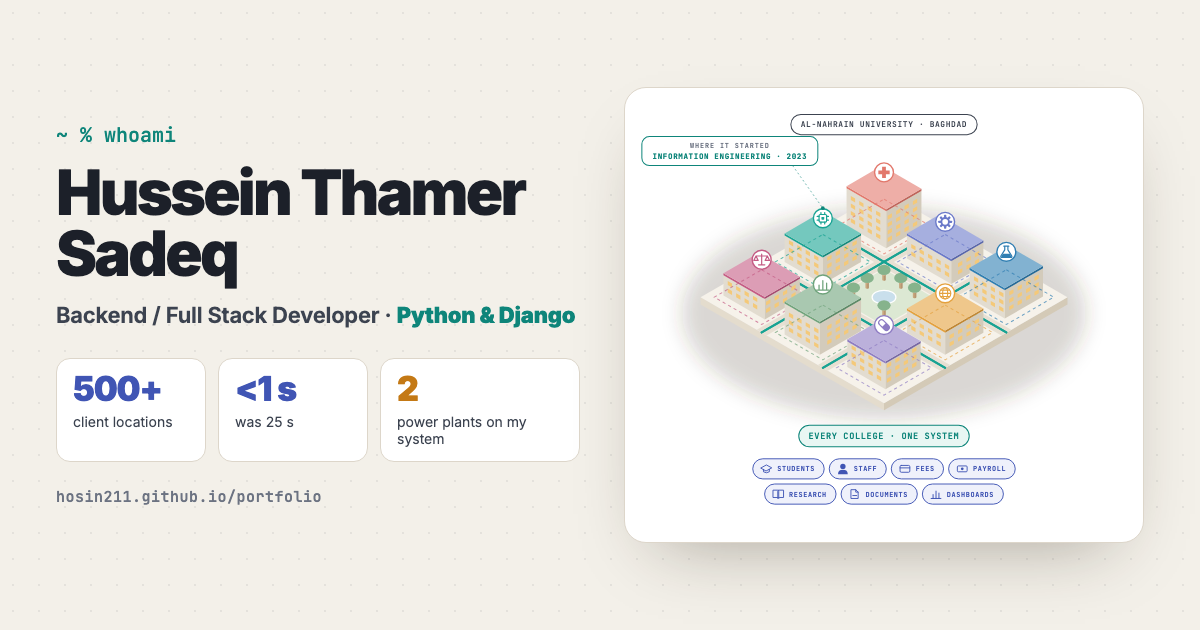
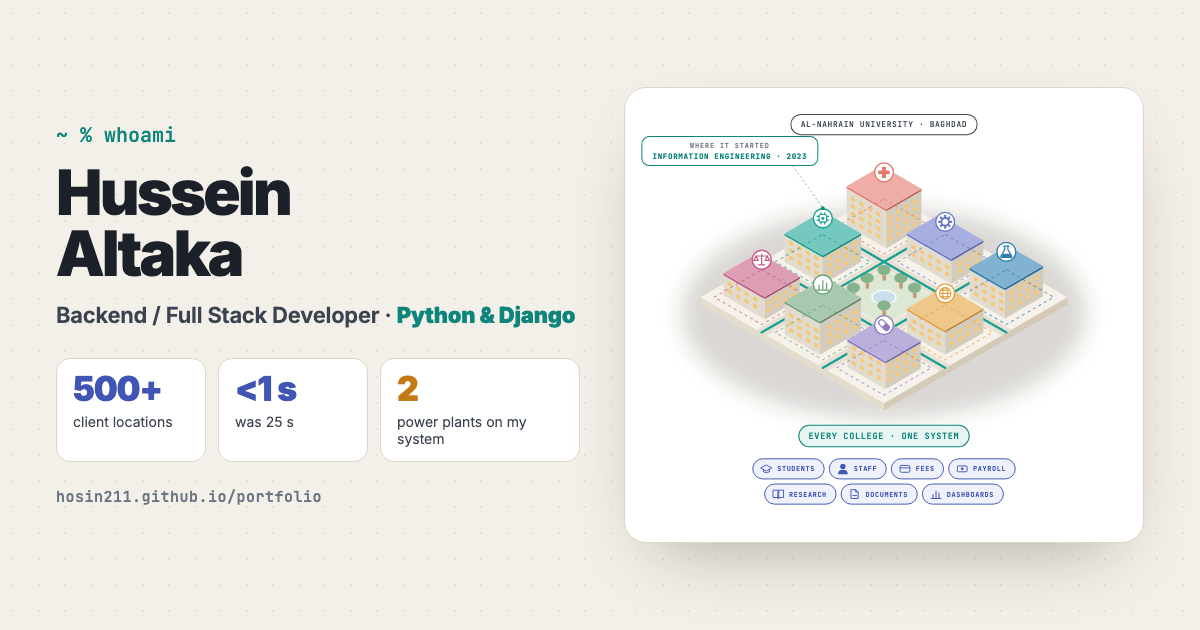
Use the name Hussein Altaka and let the home timeline draw itself
The name now matches the passport on the page, the tab title and the
link-preview card. The milestone timeline is driven by one clock: the line
runs from milestone to milestone, each node springs in as the line reaches
it, and its card rises out of the stem with its lines following. "Today"
breathes slowly. Phones, reduced motion and ?still=1 show the final state.

Changed region(s): [[0.2467, 0.2714, 0.4625, 0.3619], [0.0308, 0.3619, 0.2158, 0.4524]]

diff --git a/js/main.js b/js/main.js
@@ -84,10 +84,54 @@ function buildProfile(){
   w.querySelectorAll('.rise').forEach((c,k)=>c.style.setProperty('--k',k));
   pro={w,chars,u:pro?pro.u:0};
   paintProfile();
-  const tl=S.querySelector('.tl'); fitTimeline();
-  if(STILL||REDUCE||!('IntersectionObserver' in window)) tl.classList.add('in','done');
-  else{const io=new IntersectionObserver(es=>{if(es.some(e=>e.isIntersecting)){tl.classList.add('in');setTimeout(()=>tl.classList.add('done'),3400);io.disconnect()}},{root:prof,threshold:.3});io.observe(tl)}
+  const tl=S.querySelector('.tl'); fitTimeline(); tlm=planTimeline(tl);
+  if(STILL||REDUCE||tlSeen||!('IntersectionObserver' in window)) finishTimeline();
+  else{const m=tlm; tl.classList.add('drawing'); paintTimeline();
+    const io=new IntersectionObserver(es=>{if(es.some(e=>e.isIntersecting)){m.on=true;io.disconnect()}},{root:prof,threshold:.3});io.observe(tl)}
 }
+// The timeline draws itself like a motion graphic, with the motion rules of the fframes design guide:
+// the line runs from milestone to milestone, each node springs in as the line reaches it, its stem grows,
+// then the card rises out of the stem and its lines follow 60 ms apart. "Today" then breathes (CSS).
+const SPRING={snappy:[300,26],soft:[150,18]};                 // stiffness, damping, mass 1
+function spring(t,[k,c]){                                     // 0 → 1, a small overshoot, settles on its own
+  if(t<=0) return 0;
+  const w=Math.sqrt(k), z=c/(2*w), wd=w*Math.sqrt(1-z*z);
+  return 1-Math.exp(-z*w*t)*(Math.cos(wd*t)+z*w/wd*Math.sin(wd*t));
+}
+let tlm=null, tlSeen=false;
+function planTimeline(tl){
+  const q=s=>[...tl.querySelectorAll(s)], pos=e=>parseFloat(e.style.getPropertyValue('--x'))/100;
+  const nodes=q('.tl-node'), stems=q('.tl-stem'), cards=q('.tl-card'), yrs=q('.tl-yr');
+  const legs=[]; let s=0, from=0;                              // leg k: the line from the last milestone to milestone k
+  nodes.forEach((n,k)=>{const d=k?.34:.3; legs.push({from,to:pos(n),s,a:s+d}); from=pos(n); s+=d+.2});
+  const ms=nodes.map((n,k)=>({a:legs[k].a, node:n, stem:stems[k], card:cards[k],
+    dir:cards[k].classList.contains('down')?-1:1,
+    parts:[...cards[k].querySelectorAll(':scope>.tl-date,:scope>b,:scope>.tl-role,.tl-hi em')],
+    yr:yrs.find(y=>Math.abs(pos(y)-pos(n))<.001)}));
+  return {tl,line:tl.querySelector('.tl-line'),legs,ms,t:0,on:false,end:legs[legs.length-1].a+1.3};
+}
+function paintTimeline(){
+  const m=tlm; if(!m) return; const t=m.t, last=m.legs[m.legs.length-1];
+  let x=0; for(const g of m.legs){if(t>=g.a) x=g.to; else{if(t>g.s) x=lerp(g.from,g.to,E.inOutCubic(P(t,g.s,g.a))); break}}
+  if(t>last.a) x=lerp(last.to,1,E.outCubic(P(t,last.a+.1,last.a+.7)));   // after "today" it runs on to the edge
+  m.line.style.clipPath=`inset(0 ${((1-x)*100).toFixed(2)}% 0 0 round 2px)`;
+  const f=v=>v.toFixed(3);
+  m.ms.forEach(o=>{
+    const a=o.a, n=spring(t-a,SPRING.snappy), c=spring(t-a-.1,SPRING.soft);
+    o.node.style.opacity=f(P(t,a,a+.12)); o.node.style.transform=`scale(${f(.45+.55*n)})`;
+    o.stem.style.opacity=f(.5*P(t,a+.04,a+.2)); o.stem.style.transform=`scaleY(${f(E.outCubic(P(t,a+.04,a+.3)))})`;
+    if(o.yr){o.yr.style.opacity=f(.3*P(t,a+.1,a+.45)); o.yr.style.transform=`translate(-50%,${((1-c)*18).toFixed(1)}px)`}
+    o.card.style.opacity=f(E.outCubic(P(t,a+.1,a+.4)));
+    o.card.style.transform=`translateY(${(o.dir*40*(1-c)).toFixed(1)}px) scale(${(.96+.04*c).toFixed(4)})`;
+    o.parts.forEach((e,j)=>{const s=a+.17+j*.06; e.style.opacity=f(P(t,s,s+.25)); e.style.transform=`translateY(${((1-spring(t-s,SPRING.soft))*10).toFixed(1)}px)`});
+  });
+}
+function finishTimeline(){                                     // hand everything back to the stylesheet
+  const m=tlm; if(!m) return; m.on=false; m.t=m.end; tlSeen=true;
+  [m.line,...m.ms.flatMap(o=>[o.node,o.stem,o.card,o.yr,...o.parts])].forEach(e=>{if(e){e.style.opacity='';e.style.transform='';e.style.clipPath=''}});
+  m.tl.classList.remove('drawing'); m.tl.classList.add('done');
+}
+window.timelineAt=t=>{if(!tlm) return; if(t>=tlm.end) return finishTimeline(); tlm.tl.classList.remove('done'); tlm.tl.classList.add('drawing'); tlm.t=t; paintTimeline()};
 function fitTimeline(){
   const tl=prof.querySelector('.tl'); if(!tl) return;
   if(innerWidth<=1100){tl.style.height='';return}
@@ -239,7 +283,7 @@ function setMode(m){
   prof.inert=m!=='profile'; storyEl.inert=m!=='story';
   prof.setAttribute('aria-hidden',m!=='profile'); storyEl.setAttribute('aria-hidden',m!=='story');
   if(m==='profile'){stopTour();secs.forEach(s=>s.classList.remove('on'));document.body.dataset.tone='teal';document.title=PAGE_TITLE}
-  else document.title=`${tx(UI.story)} · Hussein Thamer Sadeq`;
+  else document.title=`${tx(UI.story)} · Hussein Altaka`;
 }
 const PAGE_TITLE=document.title;
 function openStory(i=0){
@@ -361,6 +405,7 @@ function frame(ts){
   const dt=Math.min(.05,(ts-last)/1000); last=ts;
   if(!REDUCE){
     if(mode==='profile'&&pro&&pro.u<3){pro.u+=dt;paintProfile()}
+    if(mode==='profile'&&tlm&&tlm.on&&pro.u>1.2){tlm.t+=dt; if(tlm.t>=tlm.end) finishTimeline(); else paintTimeline()}
     if(mode==='story'){const m=mounted.find(x=>x.i===idx); if(m){m.u+=dt;paint(m)}}
   }
   tourTick(dt);

diff --git a/css/site.css b/css/site.css
@@ -110,8 +110,8 @@ body[data-mode=story] #profile{transform:translateX(-8vw) scale(.985);opacity:0;
 .tl [data-tone=amb]{--c:var(--amb);--cL:var(--ambL)} .tl [data-tone=ink]{--c:var(--ink);--cL:var(--bg)}
 .tl-line{position:absolute;left:0;right:0;top:50%;height:4px;margin-top:-2px;border-radius:2px;background:linear-gradient(90deg,var(--teal) 0%,var(--teal) 44%,var(--ind) 56%,var(--ind) 100%);transform-origin:0 50%}
 .tl-node{position:absolute;z-index:1;top:50%;left:var(--x);width:22px;height:22px;margin:-11px 0 0 -11px;border-radius:50%;background:#fff;border:4px solid var(--c);box-shadow:0 0 0 5px #fff}
-.tl-node.today::after{content:'';position:absolute;inset:-5px;border-radius:50%;border:2px solid var(--c);animation:tlpulse 1.9s ease-out infinite}
-@keyframes tlpulse{from{transform:scale(1);opacity:.7}to{transform:scale(2.3);opacity:0}}
+.tl-node.today::after{content:'';position:absolute;inset:-5px;border-radius:50%;border:2px solid var(--c);animation:tlpulse 3.6s cubic-bezier(.16,1,.3,1) infinite}
+@keyframes tlpulse{from{transform:scale(1);opacity:.55}to{transform:scale(2.1);opacity:0}}
 .tl-stem{position:absolute;left:var(--x);width:2px;margin-left:-1px;height:24px;background:var(--c);opacity:.5}
 .tl-stem.up{bottom:calc(50% + 12px)} .tl-stem.down{top:calc(50% + 12px)}
 .tl-yr{position:absolute;left:var(--x);top:calc(50% + 28px);transform:translateX(-50%);font-size:clamp(42px,3.7vw,62px);font-weight:900;letter-spacing:-.05em;line-height:1;color:var(--c);opacity:.3;pointer-events:none}
@@ -135,18 +135,11 @@ button.tl-card:hover .go{transform:translateX(3px)}
 .lg{display:inline-flex;align-items:center;gap:7px;font:600 11px/1 var(--mono);letter-spacing:1.3px;text-transform:uppercase;color:var(--mute)}
 .lg b{font-size:13px;color:var(--ink2)}
 .snote{font-size:13.5px;color:var(--mute)}
-/* the timeline draws itself: the line runs out, then each milestone arrives in order */
-.js .tl .tl-line{transform:scaleX(0)}
-.js .tl.in .tl-line{transform:none;transition:transform 1.9s var(--ease) .1s}
-.js .tl .tl-node{transform:scale(0)}
-.js .tl .tl-stem,.js .tl .tl-yr,.js .tl .tl-card{opacity:0}
-.js .tl .tl-card.up{transform:translateY(14px)} .js .tl .tl-card.down{transform:translateY(-14px)}
-.js .tl.in .tl-node{transform:none;transition:transform .55s cubic-bezier(.3,1.7,.5,1) calc(.25s + var(--i) * .36s)}
-.js .tl.in .tl-stem{opacity:.5;transition:opacity .4s ease calc(.35s + var(--i) * .36s)}
-.js .tl.in .tl-yr{opacity:.3;transition:opacity .9s ease calc(.3s + var(--i) * .36s)}
-.js .tl.in .tl-card{opacity:1;transform:none;transition:opacity .6s ease calc(.4s + var(--i) * .36s),transform .8s var(--out) calc(.4s + var(--i) * .36s),box-shadow .25s}
-.js .tl.done .tl-card{transition:transform .25s var(--out),box-shadow .25s}
-.js .tl.done button.tl-card:hover{transform:translateY(-3px)}
+/* the timeline draws itself (paintTimeline in js/main.js): hidden until it plays, plain CSS once done */
+.js .tl:not(.done) .tl-line{clip-path:inset(0 100% 0 0)}
+.js .tl:not(.done) .tl-node,.js .tl:not(.done) .tl-stem,.js .tl:not(.done) .tl-yr,.js .tl:not(.done) .tl-card{opacity:0}
+.tl.drawing,.tl.drawing *{transition:none!important}
+.tl-stem.up{transform-origin:50% 100%} .tl-stem.down{transform-origin:50% 0}
 .btn{display:inline-flex;align-items:center;gap:10px;font:600 14px/1 var(--mono);padding:13px 18px;border-radius:999px;border:1.5px solid var(--ink);cursor:pointer;transition:background .2s,transform .2s}
 .btn.primary{background:var(--ink);color:#fff}
 .btn.primary:hover{background:#2C3446;transform:translateY(-1px)}
@@ -303,7 +296,7 @@ footer#timeline{height:var(--bottom);flex:none;display:flex;align-items:center;g
   .tl-node,.tl-stem,.tl-yr{display:none}
   .tl-card{position:relative;left:auto!important;top:auto!important;bottom:auto!important;width:auto}
   .tl-card::before{content:'';position:absolute;left:-33px;top:16px;width:14px;height:14px;border-radius:50%;background:#fff;border:4px solid var(--c);box-shadow:0 0 0 4px var(--card)}
-  .js .tl .tl-line,.js .tl .tl-card{transform:none!important;opacity:1!important}
+  .js .tl .tl-line,.js .tl .tl-card,.js .tl .tl-card>*,.js .tl .tl-hi em{transform:none!important;opacity:1!important;clip-path:none!important}
 }
 @media (max-width:860px){
   :root{--top:56px;--bottom:74px}

diff --git a/index.html b/index.html
@@ -3,20 +3,20 @@
 <head>
 <meta charset="utf-8">
 <meta name="viewport" content="width=device-width,initial-scale=1,viewport-fit=cover">
-<title>Hussein Thamer Sadeq · Backend / Full Stack Developer</title>
+<title>Hussein Altaka · Backend / Full Stack Developer</title>
 <meta name="description" content="Backend-focused full stack developer, 5 years of production Python and Django. 500+ client locations at Apicbase, plus the systems behind two power plants and a whole university.">
 <link rel="icon" href="favicon.svg" type="image/svg+xml">
 <link rel="apple-touch-icon" href="apple-touch-icon.png">
 <!-- the card a link shows when it is pasted into an email, Teams, Slack or LinkedIn messages -->
 <meta property="og:type" content="website">
-<meta property="og:site_name" content="Hussein Thamer Sadeq">
-<meta property="og:title" content="Hussein Thamer Sadeq · Backend / Full Stack Developer">
+<meta property="og:site_name" content="Hussein Altaka">
+<meta property="og:title" content="Hussein Altaka · Backend / Full Stack Developer">
 <meta property="og:description" content="5 years of production Python and Django. 500+ client locations at Apicbase, plus the systems behind two power plants and a whole university.">
 <meta property="og:url" content="https://hosin211.github.io/portfolio/">
 <meta property="og:image" content="https://hosin211.github.io/portfolio/og.png">
 <meta property="og:image:width" content="1200">
 <meta property="og:image:height" content="630">
-<meta property="og:image:alt" content="Hussein Thamer Sadeq, Backend / Full Stack Developer, Python and Django">
+<meta property="og:image:alt" content="Hussein Altaka, Backend / Full Stack Developer, Python and Django">
 <meta name="twitter:card" content="summary_large_image">
 <!-- shared by link only: keep it out of search results -->
 <meta name="robots" content="noindex, nofollow">
@@ -35,7 +35,7 @@
   <header class="top">
     <div class="left">
       <button class="back" id="toProfile" type="button"><span class="ico">←</span><span class="lbl">Profile</span></button>
-      <a class="mark" id="mark" href="./"><span class="full">Hussein Thamer Sadeq</span><span class="short">HTS</span></a>
+      <a class="mark" id="mark" href="./"><span class="full">Hussein Altaka</span><span class="short">HA</span></a>
     </div>
     <div class="right">
       <nav class="links">

diff --git a/js/content.js b/js/content.js
@@ -17,7 +17,7 @@ const UI={
 
 // ---------------- the profile: what a recruiter reads first ----------------
 const PROFILE={
-  name:'Hussein Thamer Sadeq',
+  name:'Hussein Altaka',
   role:T('Backend / Full Stack Developer','Backend / Full Stack Developer'), focus:'Python &amp; Django',
   contact:[
     {kind:'mail',label:'hussinthamer211@gmail.com',href:'mailto:hussinthamer211@gmail.com'},
@@ -207,5 +207,5 @@ const SLIDES=[
   {id:'end',group:'end',type:'end',tone:'teal',
     kick:T('5 years · still building','5 Jahre · und es geht weiter'),
     title:T("That's the story so far.",'Das war die Story bisher.'),
-    name:'Hussein Thamer Sadeq', role:T('Backend / Full Stack Developer · <b>Python &amp; Django</b>','Backend / Full Stack Developer · <b>Python &amp; Django</b>')}
+    name:'Hussein Altaka', role:T('Backend / Full Stack Developer · <b>Python &amp; Django</b>','Backend / Full Stack Developer · <b>Python &amp; Django</b>')}
 ];
